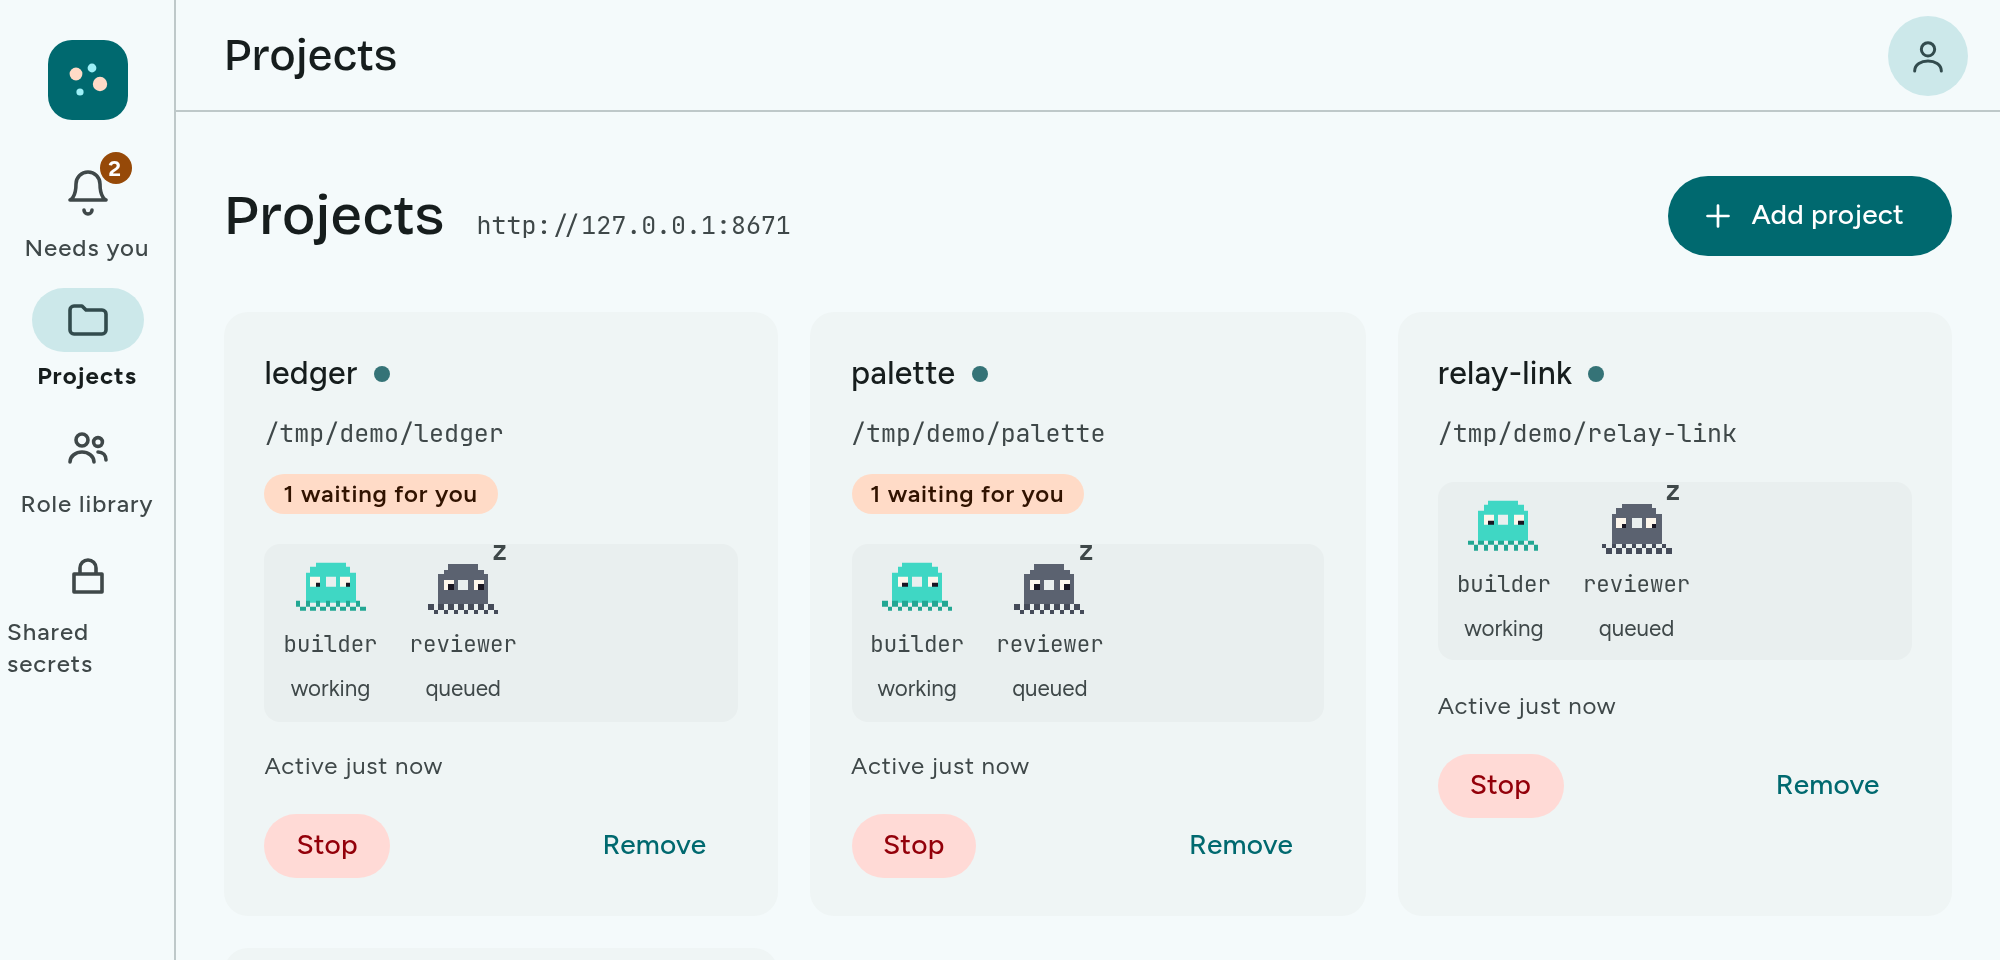
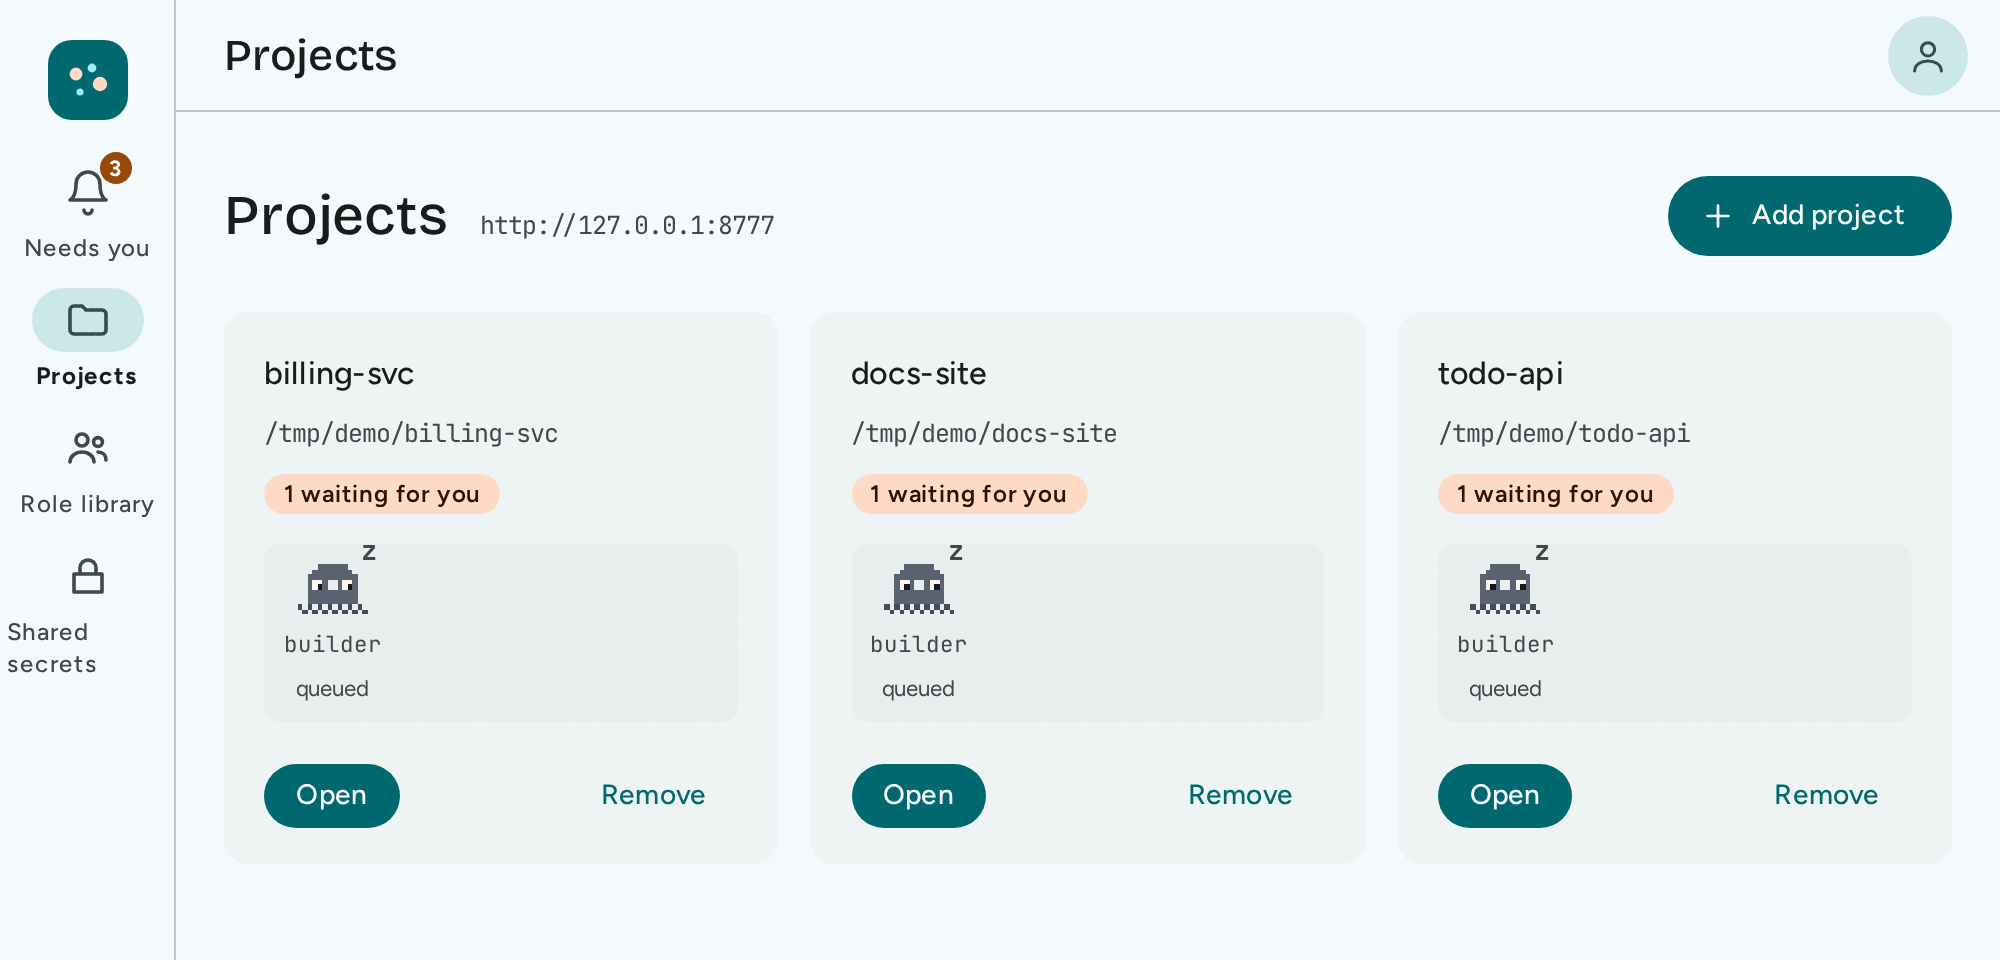
docs: a real-run hero, permission-mode copy and a comparison page (CUT-247, CUT-225)

diff --git a/marketing/index.html b/marketing/index.html
@@ -266,7 +266,7 @@
 <header class="wrap hero">
   <div>
     <h1>A fleet manager for <span class="accent">coding agents</span>.</h1>
-    <p class="sub">Register your software projects, give each a small crew of coding agents, and run all of them from one dashboard. An agent stops and asks before a command you have not approved, and a restarted daemon picks up unfinished teams.</p>
+    <p class="sub">Register your software projects, give each a small crew of coding agents, and run all of them from one dashboard. You choose how much it asks: Ask first pauses on every shell command, Standard runs a list of safe ones and asks about the rest, and Auto runs everything except a short never-allowed list. A restarted daemon picks up unfinished teams.</p>
     <p class="agents-row" aria-label="Supported coding agents">
       <span class="agents-label">Works with</span>
       <span class="agent-chip">Claude Code</span>
@@ -287,9 +287,9 @@
   <div>
    <div class="chrome">
     <div class="chrome-bar"><span></span><span></span><span></span></div>
-    <img src="assets/dashboard-fleet-hero.png" width="2000" height="960" alt="The cuttlefish-crew Projects screen with four projects: a builder is working in each, a reviewer is queued, and two projects show a 1 waiting for you badge for a command that needs approval">
+    <img src="assets/dashboard-fleet-hero.png" width="2000" height="960" alt="The cuttlefish-crew Projects screen with three projects, each showing a 1 waiting for you badge while its Claude Code builder is paused for approval of a command">
    </div>
-    <p class="staged">A staged scene: scripted agents, no model calls.</p>
+    <p class="staged">A real run: three Claude Code agents, one one-line task each, paused for your answer.</p>
   </div>
 </header>
 

diff --git a/docs-site/comparison.md b/docs-site/comparison.md
@@ -1,0 +1,72 @@
+---
+icon: lucide/scale
+---
+
+# How cuttlefish-crew differs
+
+If you are choosing a tool to run several coding agents across several projects, these are the ones we
+would look at next to us. This page is short on purpose. It says what each does well, where we differ, and
+where we are behind.
+
+!!! note "Where the facts come from"
+    Rows about other products are as of 2026-10-31, from their own pages and docs. We have not installed or
+    run them, so a product's real behaviour may differ from what its page says. Rows about cuttlefish-crew
+    are checked against this repository's code. Prices change; check each site.
+
+## The short version
+
+| | cuttlefish-crew | herdr | Paseo | Conductor | Claude Code Remote Control and Agent View |
+|---|---|---|---|---|---|
+| What it is | A daemon you run, with a web dashboard | A native desktop app and terminal UI with a local server | An open-source daemon with desktop, mobile, web and CLI clients | A Mac app, now also leading with cloud workspaces | Anthropic's phone, web and desktop window onto Claude Code sessions |
+| Agents it drives | 3: kopicode, Claude Code, Codex | Any terminal agent | Many; its page lists 30+ | Claude Code and Codex | Claude Code only |
+| Phone | A web app over a hosted relay or Tailscale https; no native app | None in its docs | Native iOS and Android apps | Listed as forthcoming | The Claude phone app |
+| Where agents run | Your machines | Your machines, plus SSH machines | Your machines, over LAN, Tailscale, SSH or an optional relay | Your Mac, or its cloud workspaces on a paid plan | Your machine |
+| Licence | Apache-2.0 | Apache-2.0 | Apache-2.0 | Closed source | Part of Anthropic's product |
+
+## Where cuttlefish-crew is different
+
+- **Approving a command is a first-class screen.** An agent that wants to run something not on the project's
+  list pauses, and the request lands under Needs you with **Allow once**, **Always allow** or **Deny**, from
+  the dashboard or a paired phone. You pick how much asks: Ask first (every shell command waits), Standard
+  (a list of safe commands runs, others ask) or Auto (everything except the never-allowed list), and a role
+  can be read-only. The never-allowed list (`sudo`, a forced push, a download piped into a shell, writes
+  outside the project root) holds in every mode. See [permission modes](cli-reference.md#permission-modes).
+- **A team survives a crash.** Each team runs as a durable [satay](https://github.com/leejianrong/satay-runtime)
+  workflow, and a restarted fleet daemon resumes unfinished teams. The one-shot `cuttlefish run` does not
+  resume on its own.
+- **One journal of what happened.** Everything a person reads back is derived from an episodic journal, with
+  secrets redacted when they are written.
+- **Credential handling.** Project secrets are stored encrypted. With `CUTTLEFISH_CREDENTIAL_BROKER=1` the
+  daemon keeps an agent's model API key and gives the agent a short-lived token instead.
+- **Three agents in one view.** The same dashboard drives kopicode, Claude Code and Codex. Remote Control and
+  Agent View cover Claude Code only.
+
+## What the others do better today
+
+- **Polish and breadth.** herdr and Paseo are open-source products with native apps, a one-line pitch and
+  more agents than our three. Paseo's page shows 22.6k GitHub stars, a sign of a larger community than ours.
+- **Native phone apps.** Paseo has iOS and Android apps, and Claude Code's Remote Control works from the
+  Claude app by scanning a QR code. Ours is a web app that needs an https address (Tailscale https or the
+  hosted relay) before a phone can pair, and it has been tested in Chromium and not on a real phone or in
+  Safari.
+- **Setup.** herdr offers a one-line install or a download. We have a one-line install script for Linux and
+  WSL2 (macOS is untested), and you still add Node.js, tmux and an agent CLI yourself.
+- **Git workflow.** Paseo and Conductor advertise worktree isolation and a pull-request flow, and Paseo a
+  scheduled run. cuttlefish-crew has none of those today: two roles that use kopicode on the same project run
+  one at a time, there is no per-agent worktree, no pull-request flow and no cron-style schedule. Autopilot
+  keeps one builder working toward a goal, which is not a schedule.
+- **People and cloud.** Conductor's cloud workspaces run for you. cuttlefish-crew runs only on machines you
+  own, and it has one operator with one password: no accounts, roles or single sign-on.
+- **Anthropic's own tools** will keep tracking Claude Code's newest features sooner than a wrapper can. If you
+  only use Claude Code and a phone is all you need, Remote Control (and `claude agents`, Anthropic's
+  dashboard of background sessions) may be enough.
+
+## Which to pick
+
+- Pick **herdr** if you live in a terminal and want a polished multiplexer for any agent.
+- Pick **Paseo** if you want native phone apps and the widest agent list, and you are happy with its feature set.
+- Pick **Conductor** if you work on a Mac and want worktrees and a diff-and-merge flow.
+- Pick **Remote Control** if you only use Claude Code and want its phone app with no extra install.
+- Pick **cuttlefish-crew** if you run several projects with more than one vendor's agent, you want each
+  command's approval to be a decision you make from one place, and you want a record of what each team did.
+  How much it asks is your setting, from every command to almost none. It has no scheduled runs.

diff --git a/README.md b/README.md
@@ -7,7 +7,9 @@ coding to a pluggable backend
 ([kopicode](https://github.com/leejianrong/kopicode), headless Claude Code, or
 headless Codex), and everything that happens lands in one readable journal.
 
-![The Projects screen: three projects with a builder working in each and two showing a "1 waiting for you" badge (a staged scene: scripted agents, no model calls)](docs/assets/dashboard-fleet-hero.png)
+![The Projects screen from a real run: three projects, each with a Claude Code builder paused on a command and a "1 waiting for you" badge](docs/assets/dashboard-fleet-hero.png)
+
+![The Needs you screen from the same run: a Claude Code command waiting for Allow once or Deny](docs/assets/dashboard-needs-you.png)
 
 When an agent wants to run a command you have not approved, it stops and waits
 for you. You answer from the dashboard, and the agent carries on:
@@ -254,7 +256,7 @@ $0.71 (`agent_docs/model-costs.md`).
 ## Documentation
 
 [Docs site](https://leejianrong.github.io/cuttlefish-crew/docs/) (quickstart,
-CLI reference, architecture) · [`docs/PLAN.md`](docs/PLAN.md) (where this is
+CLI reference, architecture, [how we differ](https://leejianrong.github.io/cuttlefish-crew/docs/comparison/)) · [`docs/PLAN.md`](docs/PLAN.md) (where this is
 headed) · [`docs/adr/`](docs/adr/) (why each decision was made) ·
 [`docs/research/`](docs/research/) (competitor comparison).
 
